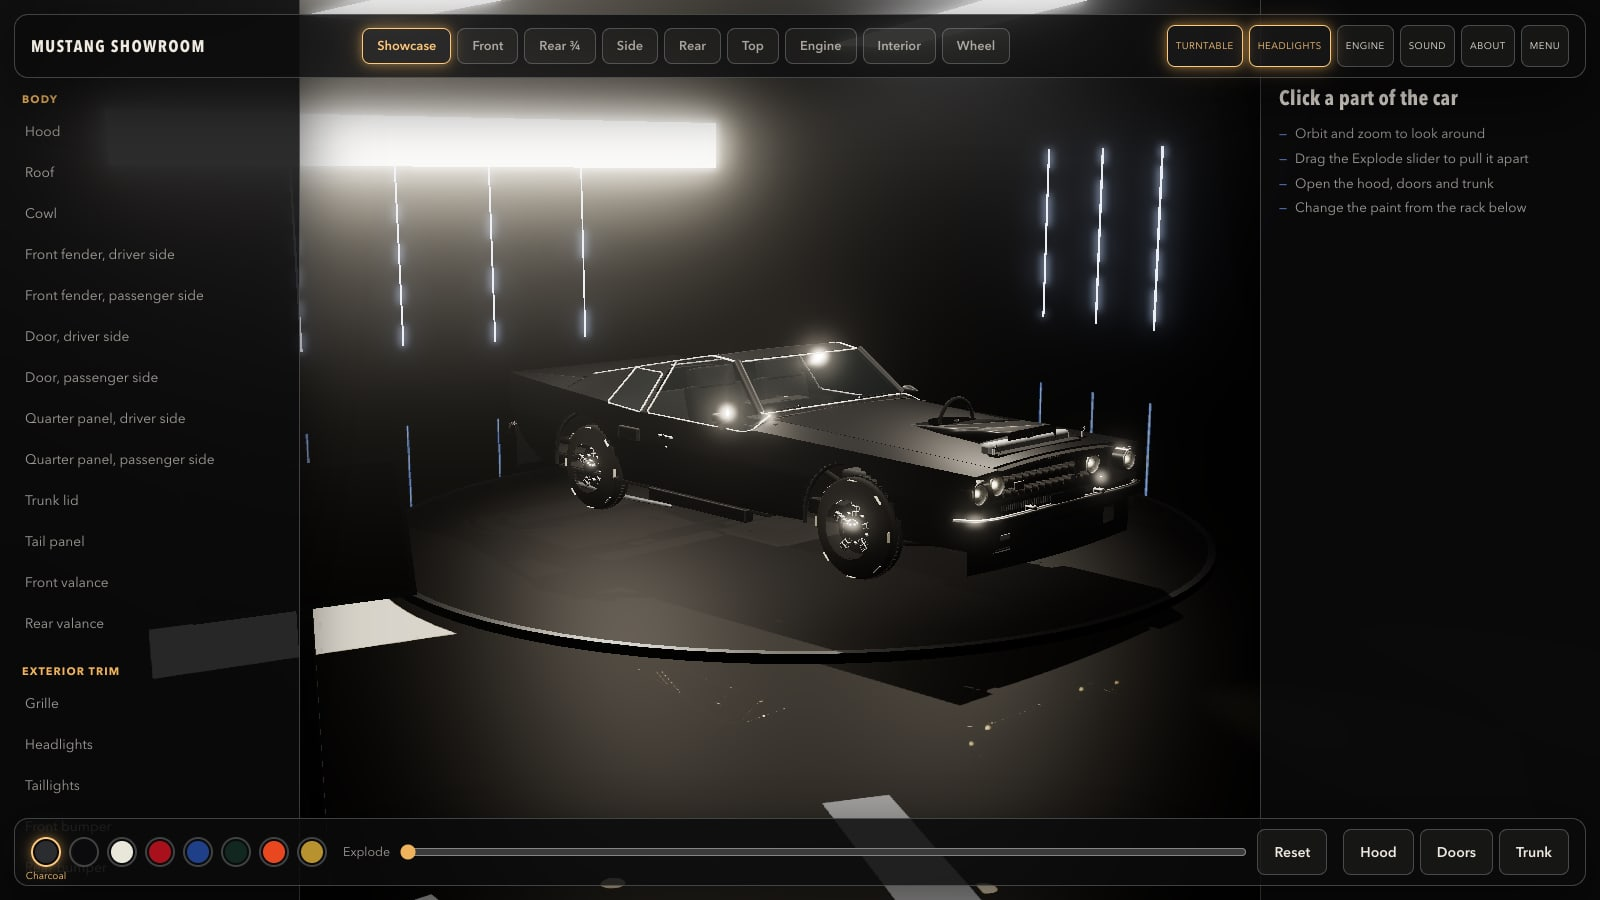
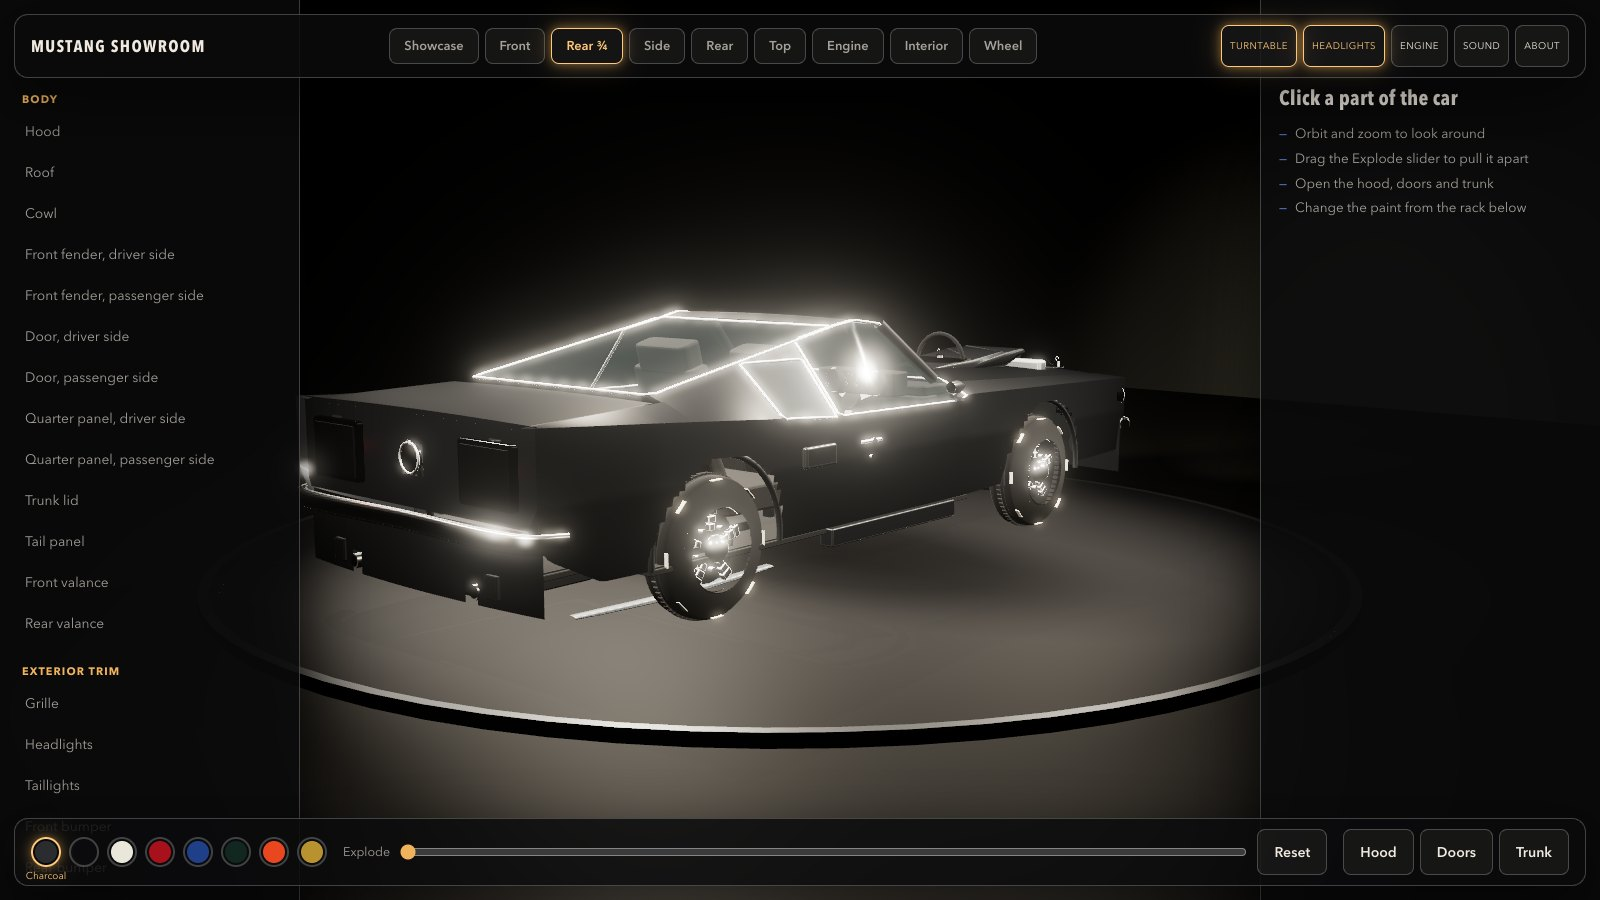
Refresh the Mustang Showroom card
The card's screenshot predates the spotlights, the recorded V8, the turn
signals and the see-through part selection, and its introduction still
called the engine synthesised. Replace the thumbnail with a current shot
of the spot-lit car under its headlights and bring the summary up to date.

diff --git a/CHANGELOG.md b/CHANGELOG.md
@@ -8,6 +8,7 @@ The format is based on [Keep a Changelog](https://keepachangelog.com/en/1.1.0/).
 
 ### Changed
 
+- The Mustang Showroom card has a fresh screenshot of the spot-lit car and an introduction that now mentions the recorded V8, the amber turn signals, and the see-through part selection.
 - Every blog post now shares a 1200×630 social preview card made from its own image, so links on Facebook, LinkedIn, and X show the whole picture instead of cropping portrait, square, and small images.
 - The ClamAV Control card is labelled Desktop app instead of Article.
 - The home page's search and link-preview description now summarizes the site instead of repeating its title.
